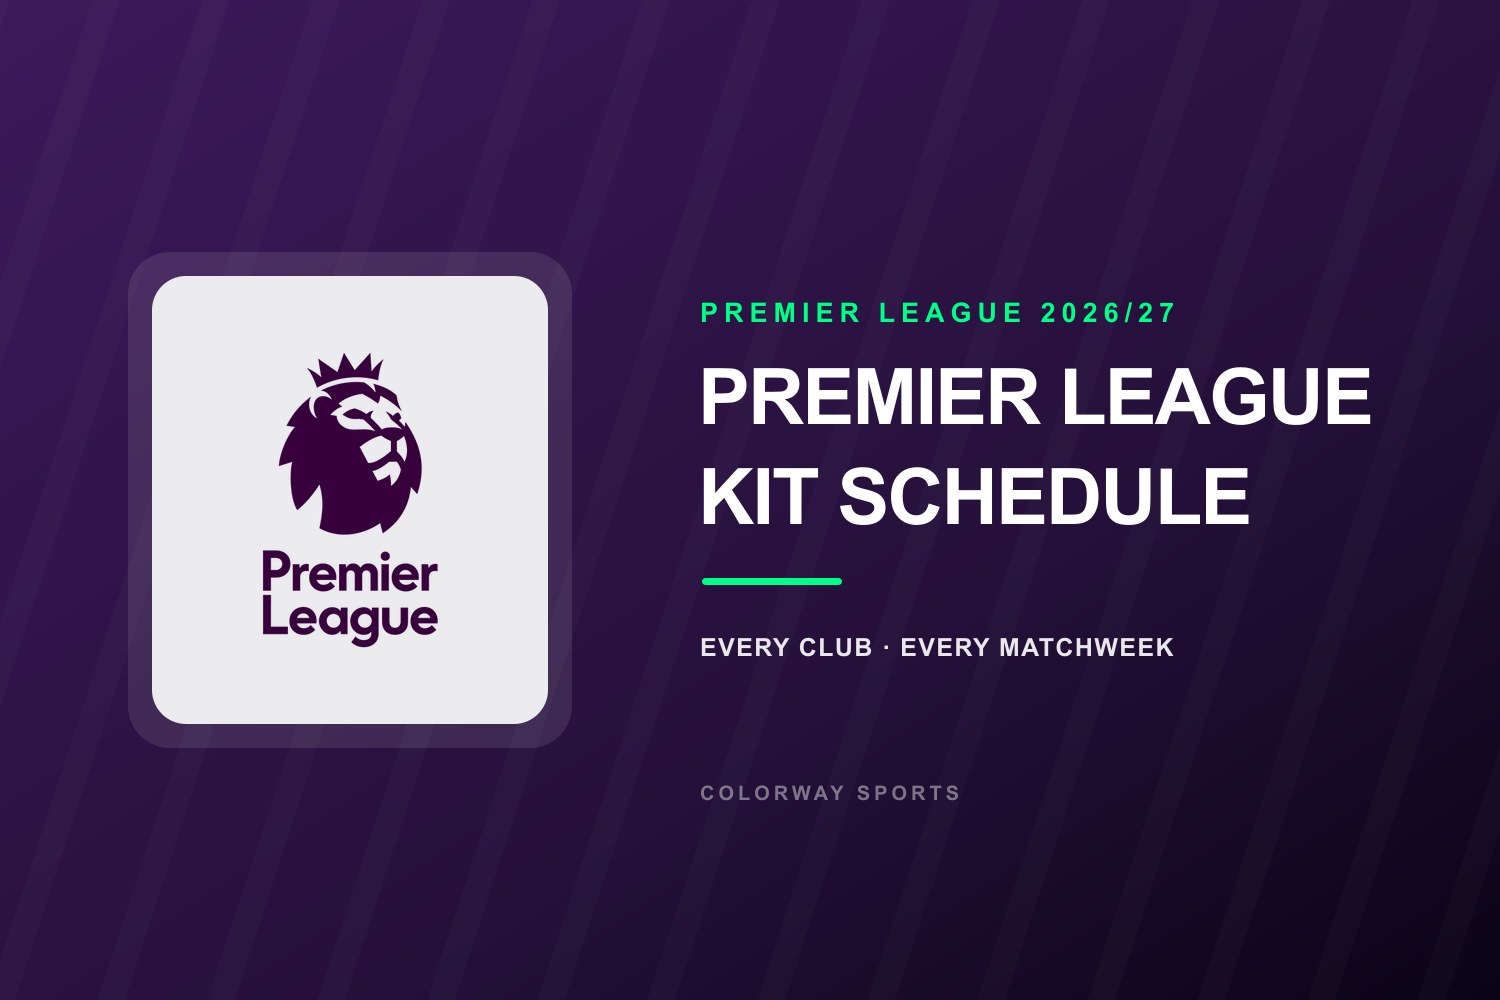
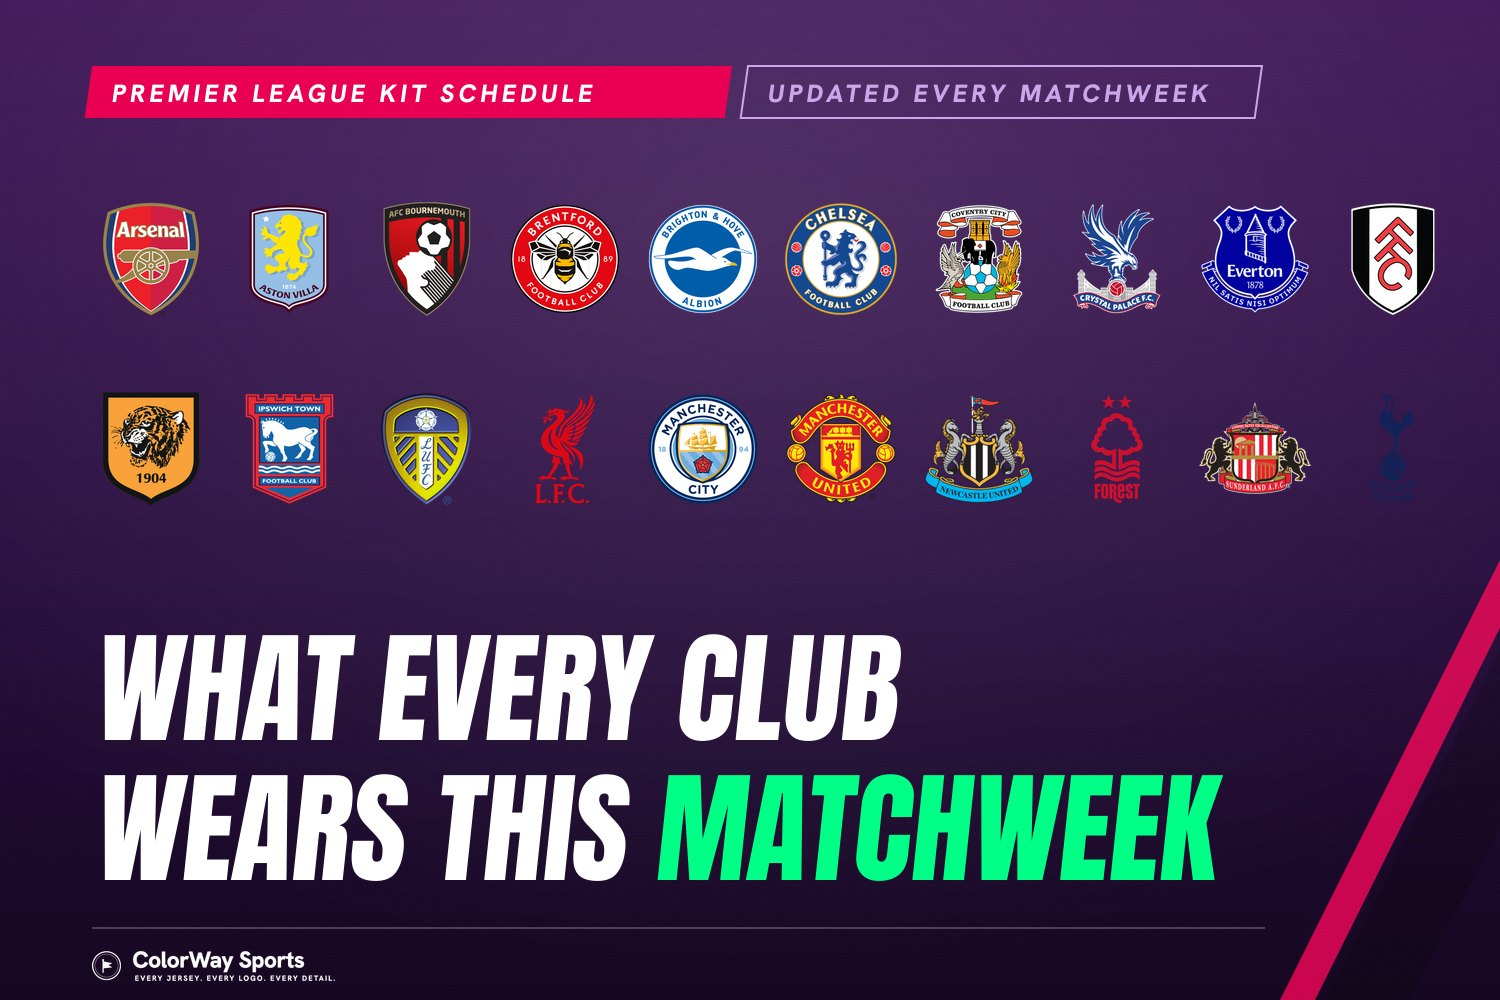
Premier League hub: MLB-tracker-style cover, and MW2 opens with Palace-City
The hub cover is rebuilt to match the MLB tracker cover Jake likes - same
skewed kicker chips, badge grid, Anton headline with one accent word, diagonal
slash and wordmark - in the league's own colours: purple ground, pink slash,
green accent, all 20 club badges in two rows. scripts/gen-epl-schedule-cover.mjs
regenerates it; same cover.jpg path, so no reference churn.

Matchweek 2 now opens with the played fixture as a proper matchup card, home
club listed first per the new soccer rule: Full Time, Crystal Palace 1-4 Man
City, the sash render against the worker-bee cutout. The grid cell swaps its
kickoff time for the score.

The Palace home shirt could not be sourced as a product photo (Macron is in no
reachable retailer catalog), so the kit renderer grew a sash type, checked
against the product shot: the band runs viewer top-left to bottom-right, seven
red pinstripes then a white spine then seven blue, entering at the left
shoulder and leaving at the right hem, with matching shoulder panels and
two-tone cuffs. Two traps for next time: a tiled pattern repeats across the
body where explicit rotated geometry reads as one band, and each shoulder
group needs its own rotation centre - rotating about the body centre threw
the stripes clean out of the sleeve clips.

diff --git a/content/posts/premier-league-kit-schedule-2026-27.md b/content/posts/premier-league-kit-schedule-2026-27.md
@@ -25,8 +25,35 @@ Ten fixtures from Friday night to Monday night. The Premier League confirms kit 
 
 We fill each cell in as the club itself confirms it, not when a preview graphic guesses. That distinction has mattered before: graphics circulating ahead of matchweek 1 had two of these fixtures wrong.
 
+<div style="margin: 1.4em 0 0.6em;">
+<div style="background: linear-gradient(135deg, #1a1a1a 0%, #0a0a0a 100%); border-radius: 14px; padding: 18px 22px 20px; box-shadow: 0 1px 3px rgba(0,0,0,0.08);">
+  <div style="text-align: center; margin-bottom: 12px;">
+    <span style="padding: 4px 14px; background: linear-gradient(90deg, #1B458F 0%, #6CABDD 100%); border-radius: 999px; font-size: 10px; font-weight: 800; color: #ffffff; text-transform: uppercase; letter-spacing: 2px; display: inline-block;">Full Time &middot; Crystal Palace 1-4 Man City</span>
+  </div>
+  <div style="display: grid; grid-template-columns: 1fr auto 1fr; align-items: center;">
+    <div style="text-align: center; display: flex; flex-direction: column; align-items: center;">
+      <div style="width: 100%; height: 150px; background: #ececf0; border-radius: 10px; display: flex; align-items: center; justify-content: center; padding: 8px; box-sizing: border-box;">
+        <img src="/images/posts/premier-league-kit-schedule-2026-27/crystal-palace-home.png" alt="Crystal Palace white home shirt with the red and blue 1976 sash, worn against Man City on August 28 2026" style="max-height: 132px; max-width: 100%; object-fit: contain;" />
+      </div>
+      <p style="color: #ffffff; font-size: 13px; font-weight: 900; margin: 11px 0 0; line-height: 1.2;">CRYSTAL PALACE</p>
+      <p style="color: #ffffff; font-size: 9px; letter-spacing: 1.8px; text-transform: uppercase; opacity: 0.85; margin: 4px 0 0; font-weight: 600;"><span style="display: inline-block; width: 8px; height: 8px; border-radius: 50%; background: #ffffff; border: 1px solid rgba(255,255,255,0.45); margin-right: 5px; vertical-align: middle;"></span>Home, the 1976 Sash</p>
+    </div>
+    <p style="font-size: 11px; font-weight: 800; color: #ffffff; letter-spacing: 2.5px; opacity: 0.8; margin: 0 18px;">VS</p>
+    <div style="text-align: center; display: flex; flex-direction: column; align-items: center;">
+      <div style="width: 100%; height: 150px; background: #ececf0; border-radius: 10px; display: flex; align-items: center; justify-content: center; padding: 8px; box-sizing: border-box;">
+        <img src="/images/posts/premier-league-kit-schedule-2026-27/manchester-city-away.png" alt="Manchester City black worker-bee away shirt worn at Crystal Palace on August 28 2026" style="max-height: 132px; max-width: 100%; object-fit: contain;" />
+      </div>
+      <p style="color: #ffffff; font-size: 13px; font-weight: 900; margin: 11px 0 0; line-height: 1.2;">MAN CITY</p>
+      <p style="color: #ffffff; font-size: 9px; letter-spacing: 1.8px; text-transform: uppercase; opacity: 0.85; margin: 4px 0 0; font-weight: 600;"><span style="display: inline-block; width: 8px; height: 8px; border-radius: 50%; background: #1c1c1c; border: 1px solid rgba(255,255,255,0.45); margin-right: 5px; vertical-align: middle;"></span>Away, the Worker Bee</p>
+    </div>
+  </div>
+</div>
+</div>
+
+The season's best home shirt against its lowest-graded away shirt, on the same pitch. Palace wore the white sash exactly as scheduled. City changed into the black worker-bee even though nothing forced it, and put four past Palace wearing it.
+
 <div style="display: grid; grid-template-columns: repeat(auto-fill, minmax(215px, 1fr)); gap: 10px; margin: 1.5em 0;">
-  <div style="background: #ffffff; border: 2px solid #3D195B; border-radius: 10px; padding: 12px 12px; text-align: center;"><div style="font-size: 0.68em; font-weight: 700; letter-spacing: 1px; color: #7a6b8a;">FRI &middot; AUG 28</div><div style="font-size: 0.95em; font-weight: 800; margin: 5px 0; color: #14284b;">Crystal Palace vs Man City</div><div style="font-size: 0.78em; font-weight: 700; color: #1a7f37;">White home shirt, blue and red sash</div><div style="font-size: 0.78em; font-weight: 700; color: #1a7f37;">Black worker-bee away shirt</div><div style="font-size: 0.7em; font-weight: 700; color: #444; margin-top: 6px; text-transform: uppercase; letter-spacing: 0.5px;">8:00 PM BST</div></div>
+  <div style="background: #ffffff; border: 2px solid #3D195B; border-radius: 10px; padding: 12px 12px; text-align: center;"><div style="font-size: 0.68em; font-weight: 700; letter-spacing: 1px; color: #7a6b8a;">FRI &middot; AUG 28</div><div style="font-size: 0.95em; font-weight: 800; margin: 5px 0; color: #14284b;">Crystal Palace vs Man City</div><div style="font-size: 0.78em; font-weight: 700; color: #1a7f37;">White home shirt, blue and red sash</div><div style="font-size: 0.78em; font-weight: 700; color: #1a7f37;">Black worker-bee away shirt</div><div style="font-size: 0.7em; font-weight: 700; color: #444; margin-top: 6px; text-transform: uppercase; letter-spacing: 0.5px;">Full Time &middot; 1-4</div></div>
   <div style="background: #ffffff; border: 2px solid #3D195B; border-radius: 10px; padding: 12px 12px; text-align: center;"><div style="font-size: 0.68em; font-weight: 700; letter-spacing: 1px; color: #7a6b8a;">SAT &middot; AUG 29</div><div style="font-size: 0.95em; font-weight: 800; margin: 5px 0; color: #14284b;">Liverpool vs Nottingham Forest</div><div style="font-size: 0.78em; font-weight: 700; color: #9aa0ac;">Kit to be confirmed</div><div style="font-size: 0.78em; font-weight: 700; color: #9aa0ac;">Kit to be confirmed</div><div style="font-size: 0.7em; font-weight: 700; color: #444; margin-top: 6px; text-transform: uppercase; letter-spacing: 0.5px;">12:30 PM BST</div></div>
   <div style="background: #ffffff; border: 2px solid #3D195B; border-radius: 10px; padding: 12px 12px; text-align: center;"><div style="font-size: 0.68em; font-weight: 700; letter-spacing: 1px; color: #7a6b8a;">SAT &middot; AUG 29</div><div style="font-size: 0.95em; font-weight: 800; margin: 5px 0; color: #14284b;">Bournemouth vs Everton</div><div style="font-size: 0.78em; font-weight: 700; color: #9aa0ac;">Kit to be confirmed</div><div style="font-size: 0.78em; font-weight: 700; color: #9aa0ac;">Kit to be confirmed</div><div style="font-size: 0.7em; font-weight: 700; color: #444; margin-top: 6px; text-transform: uppercase; letter-spacing: 0.5px;">3:00 PM BST</div></div>
   <div style="background: #ffffff; border: 2px solid #3D195B; border-radius: 10px; padding: 12px 12px; text-align: center;"><div style="font-size: 0.68em; font-weight: 700; letter-spacing: 1px; color: #7a6b8a;">SAT &middot; AUG 29</div><div style="font-size: 0.95em; font-weight: 800; margin: 5px 0; color: #14284b;">Coventry City vs Hull City</div><div style="font-size: 0.78em; font-weight: 700; color: #9aa0ac;">Kit to be confirmed</div><div style="font-size: 0.78em; font-weight: 700; color: #9aa0ac;">Kit to be confirmed</div><div style="font-size: 0.7em; font-weight: 700; color: #444; margin-top: 6px; text-transform: uppercase; letter-spacing: 0.5px;">3:00 PM BST</div></div>
